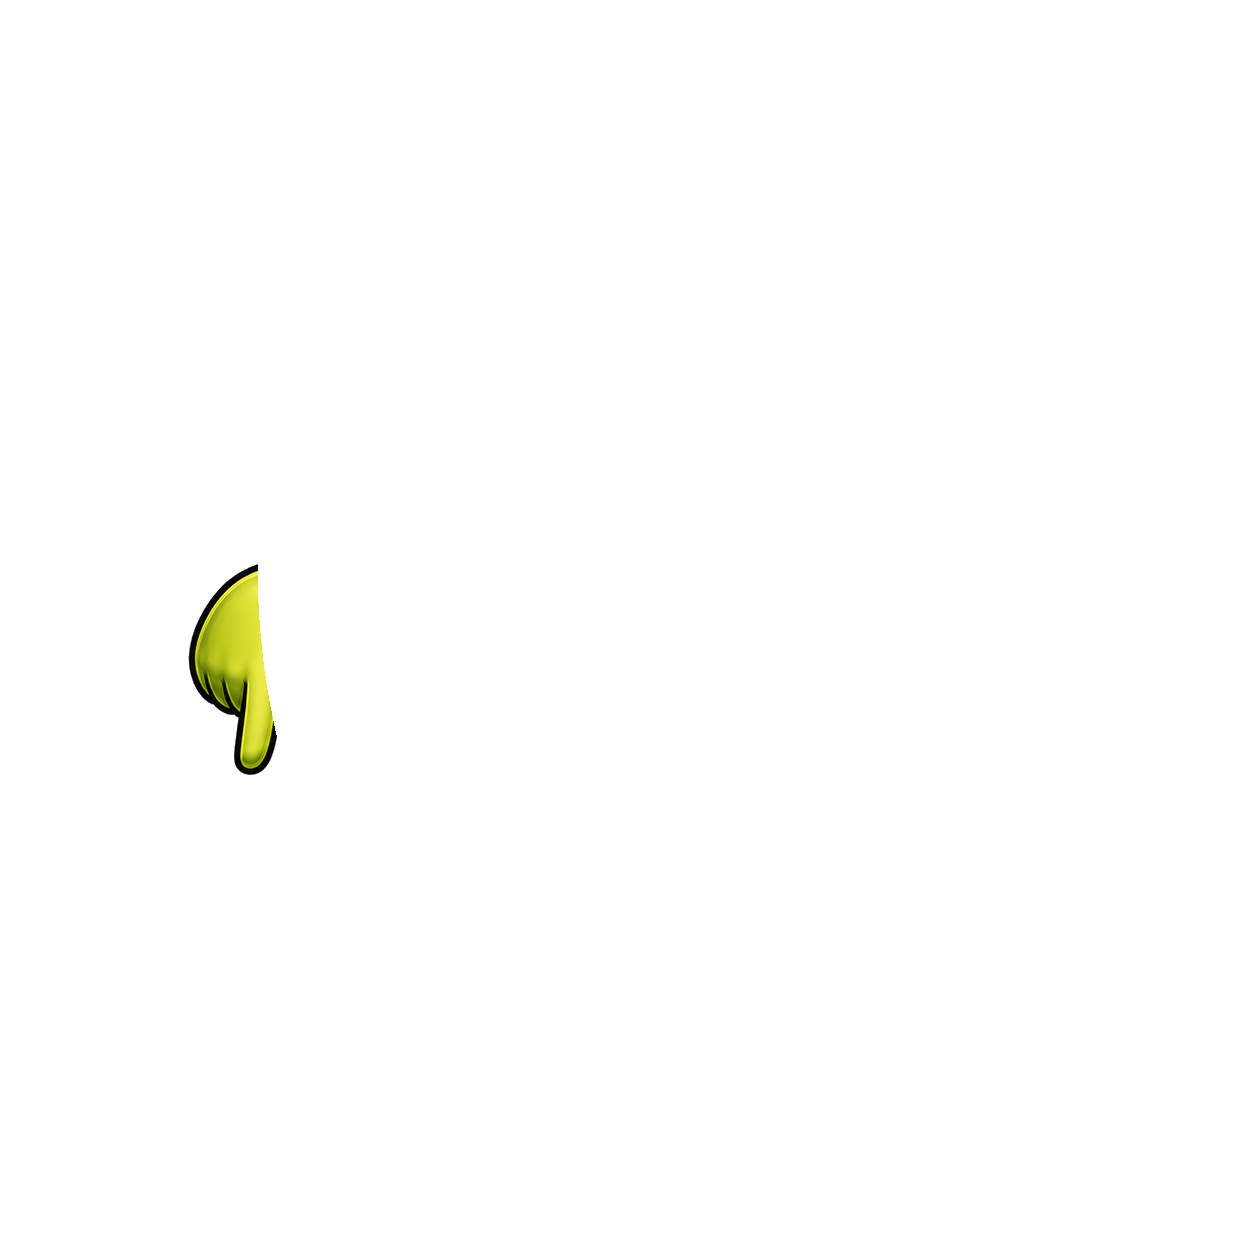
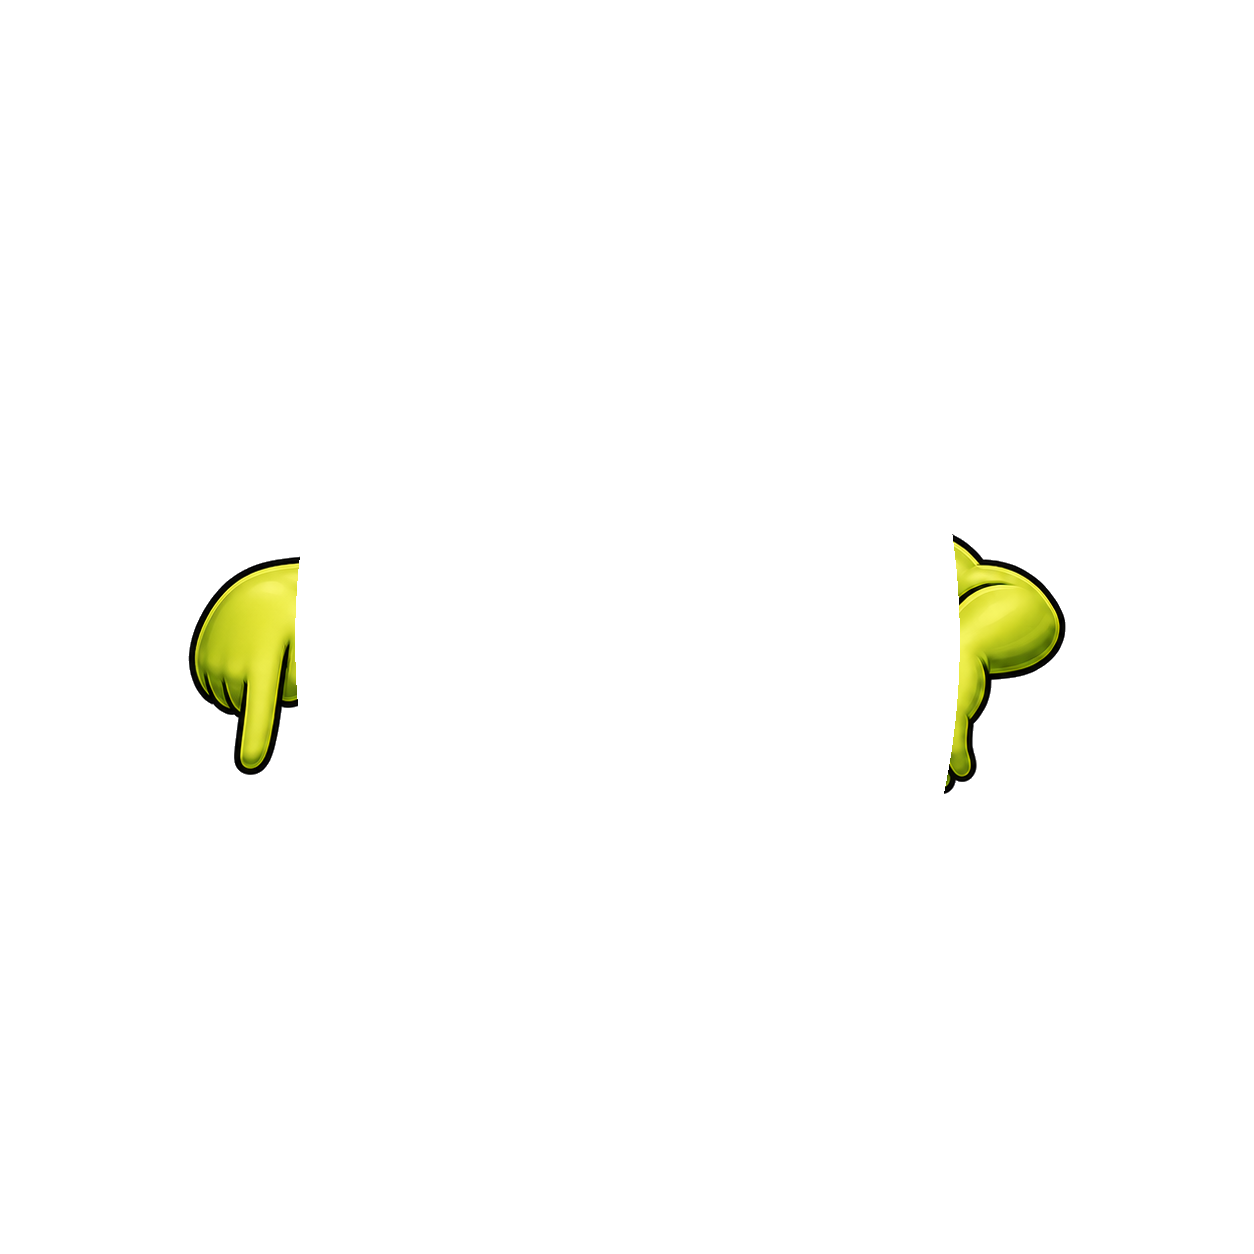
feat(training): Coach-Avocado lehnt mit beiden Haenden auf der Karte
Neue Pose (beide Arme abgespreizt) sauber genutzt: Koerper lugt hinter der
Kartenoberkante hervor, BEIDE Haende liegen vorne auf der Karte (links zeigend,
rechts offen aufgestuetzt). Haende sauber per Ellipse+Band isoliert (keine
Koerper-Keile/Streupixel). Im Composite-Render geprueft.

Changed region(s): [[0.7464, 0.4354, 0.8708, 0.622], [0.1866, 0.4354, 0.2488, 0.5909]]

diff --git a/app/components/ExerciseDetail.tsx b/app/components/ExerciseDetail.tsx
@@ -276,10 +276,10 @@ function makeStyles(c: Colors) {
     desc: { fontSize: 15, color: c.text, lineHeight: 22, marginBottom: 16 },
     h2: { fontSize: 17, fontWeight: '700', color: c.heading, marginBottom: 8 },
     illusWrap: { position: 'relative', marginTop: 30 },
-    coachBodyClip: { position: 'absolute', top: -104, right: 0, width: 200, height: 104, overflow: 'hidden', zIndex: 1 },
-    coachImgBody: { position: 'absolute', top: 0, left: 0, width: 200, height: 200 },
-    coachArmsClip: { position: 'absolute', top: 0, right: 0, width: 200, height: 46, overflow: 'hidden', zIndex: 6 },
-    coachImgArms: { position: 'absolute', top: -104, left: 0, width: 200, height: 200 },
+    coachBodyClip: { position: 'absolute', top: -105, left: '50%', marginLeft: -105, width: 210, height: 105, overflow: 'hidden', zIndex: 1 },
+    coachImgBody: { position: 'absolute', top: 0, left: 0, width: 210, height: 210 },
+    coachArmsClip: { position: 'absolute', top: 0, left: '50%', marginLeft: -105, width: 210, height: 44, overflow: 'hidden', zIndex: 6 },
+    coachImgArms: { position: 'absolute', top: -105, left: 0, width: 210, height: 210 },
     illusCard: { backgroundColor: c.card, borderRadius: 16, paddingVertical: 16, paddingHorizontal: 14, alignItems: 'center', marginBottom: 16, borderWidth: StyleSheet.hairlineWidth, borderColor: c.border },
     illusCaption: { fontSize: 13, color: c.textMuted, marginTop: 8, fontWeight: '600' },
     stepRow: { flexDirection: 'row', alignItems: 'flex-start', marginBottom: 10 },
